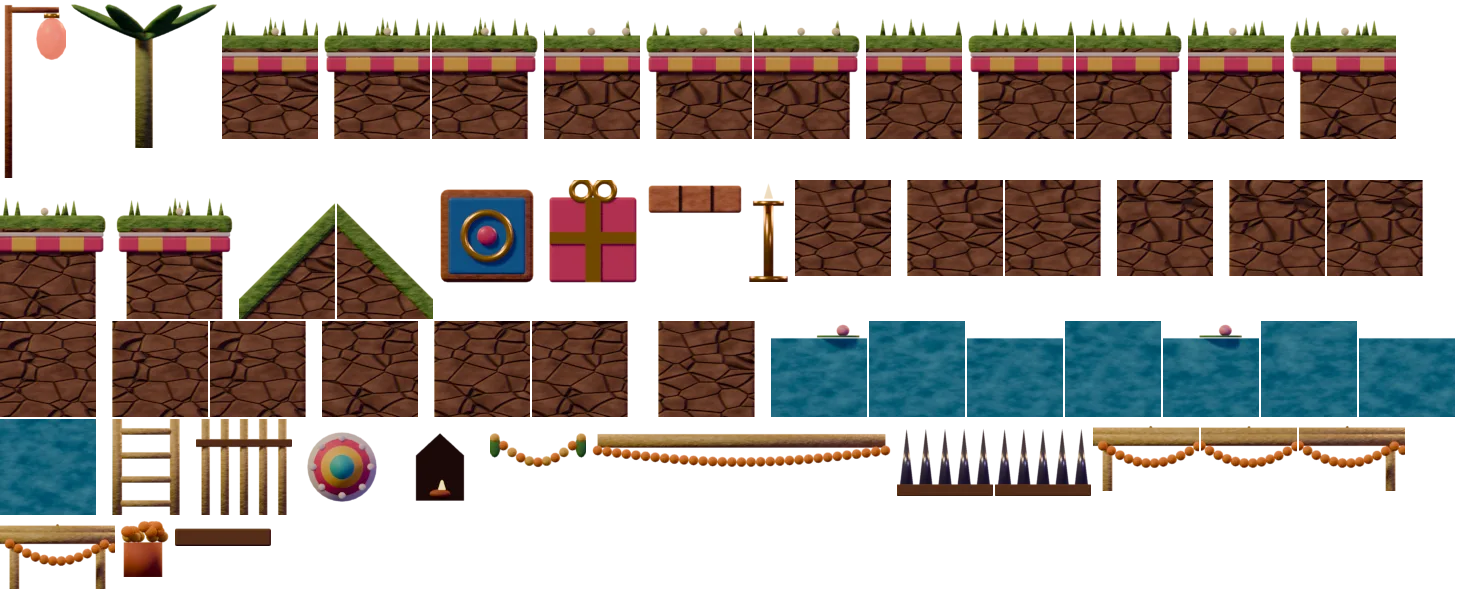
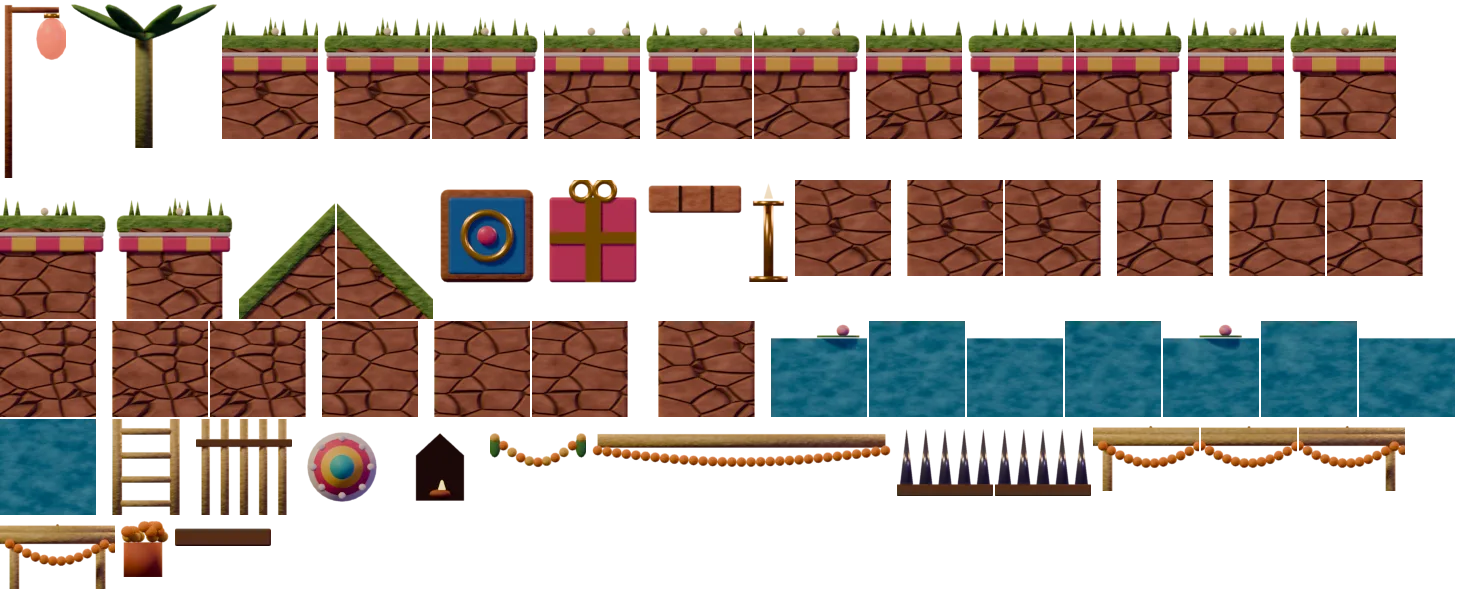
kitplat art: laterite stones for the festival lanes, plaster bands under the monsoon parapets, continuous cables in the foreground

diff --git a/tools/blender/kitplat/plat_world.py b/tools/blender/kitplat/plat_world.py
@@ -104,6 +104,7 @@ class Monsoon(World):
         self.m_fill = T.bricks("brick", "#a4553a", "#7e3d2a", "#cdbfa8", grime="#3c3530", grime_k=0.55)
         self.m_cap = T.mottled("concrete", "#8f9799", "#b9bfbd", 6, rough=0.35, bump_k=0.35)
         self.m_moss = T.mottled("moss", "#3f6b2a", "#7fa63a", 10, rough=0.8, bump_k=0.6)
+        self.m_plaster = T.mottled("plaster", "#d9c9a8", "#b9a27c", 5, rough=0.8, bump_k=0.3)
         self.m_tin = T.stripes("tin", "#8b9aa3", "#5f6d76", width=0.08, rough=0.3)
         self.m_awn = T.stripes("awning", "#d8433a", "#f1e7d4", width=0.25)
         self.m_metal = P.mat("#5e6b73", 0.35, metal=0.8)
@@ -113,7 +114,8 @@ class Monsoon(World):
         e0 = x0 - (0.1 if L else 0)
         e1 = x1 + (0.1 if R else 0)
         bx(self.m_cap, e0, e1, 0.86, 1.14, y0=-0.62, bevel=0.05)
-        bx(P.mat("#2b2724", 0.9), x0, x1, 0.8, 0.86, y0=-0.52, bevel=0)  # drip shadow line
+        bx(self.m_plaster, x0, x1, 0.5, 0.86, y0=-0.53, bevel=0.01)          # plaster band under the parapet
+        bx(P.mat("#2b2724", 0.9), x0, x1, 0.8, 0.86, y0=-0.545, bevel=0)  # drip shadow line
         for x in wrapped(periodic_points(9, 3), e0 + 0.08, e1 - 0.08):
             r = 0.05 + (x * 7.3 % 1) * 0.06
             ob = P.sphere(self.m_moss, (x, -0.55 + (x * 3.1 % 1) * 0.2, 1.13), (r * 1.6, r, r * 0.8), r=1, seg=12)
@@ -228,7 +230,7 @@ class Festival(World):
     cap_h = 0.45
 
     def materials(self):
-        self.m_fill = T.stone("earth", "#5d3f2a", "#7d573b", "#9b7150", cells=2.0, mortar="#3a281c")
+        self.m_fill = T.stone("laterite", "#8a5236", "#a8694a", "#c4865e", cells=1.5, mortar="#4a2a1a")
         self.m_cap = T.mottled("grass", "#3f7f2e", "#86b84a", 7, rough=0.85, bump_k=0.7)
         self.m_kerb = T.stripes("kerb", "#e8336d", "#ffd23f", width=0.25)
         self.m_bamboo = T.mottled("bamboo", "#b7a04a", "#d9c56a", 12, rough=0.45)

diff --git a/tools/blender/kitplat/plat_scenery.py b/tools/blender/kitplat/plat_scenery.py
@@ -249,10 +249,11 @@ def fg_monsoon():
     rep(plant, [13.0, 28.5])
     def wires(x):
         for k in range(3):
-            pts = 24
-            for i in range(pts):
-                t = i / (pts - 1)
-                P.sphere(dark, (x + t * 9, -2, H - 0.8 - k * 0.5 - 1.6 * math.sin(math.pi * t)), (0.2, 0.03, 0.03), r=1, seg=6)
+            pts = [(x + t / 16 * 9, H - 0.8 - k * 0.5 - 1.6 * math.sin(math.pi * t / 16)) for t in range(17)]
+            for (x0, z0), (x1, z1) in zip(pts, pts[1:]):
+                seg = math.hypot(x1 - x0, z1 - z0)
+                ang = math.degrees(math.atan2(z1 - z0, x1 - x0))
+                P.cyl(dark, ((x0 + x1) / 2, -2, (z0 + z1) / 2), 0.025, seg + 0.02, rot=(0, 90 - ang, 0), verts=6)
     rep(wires, [6.0, 22.0])
 
 
